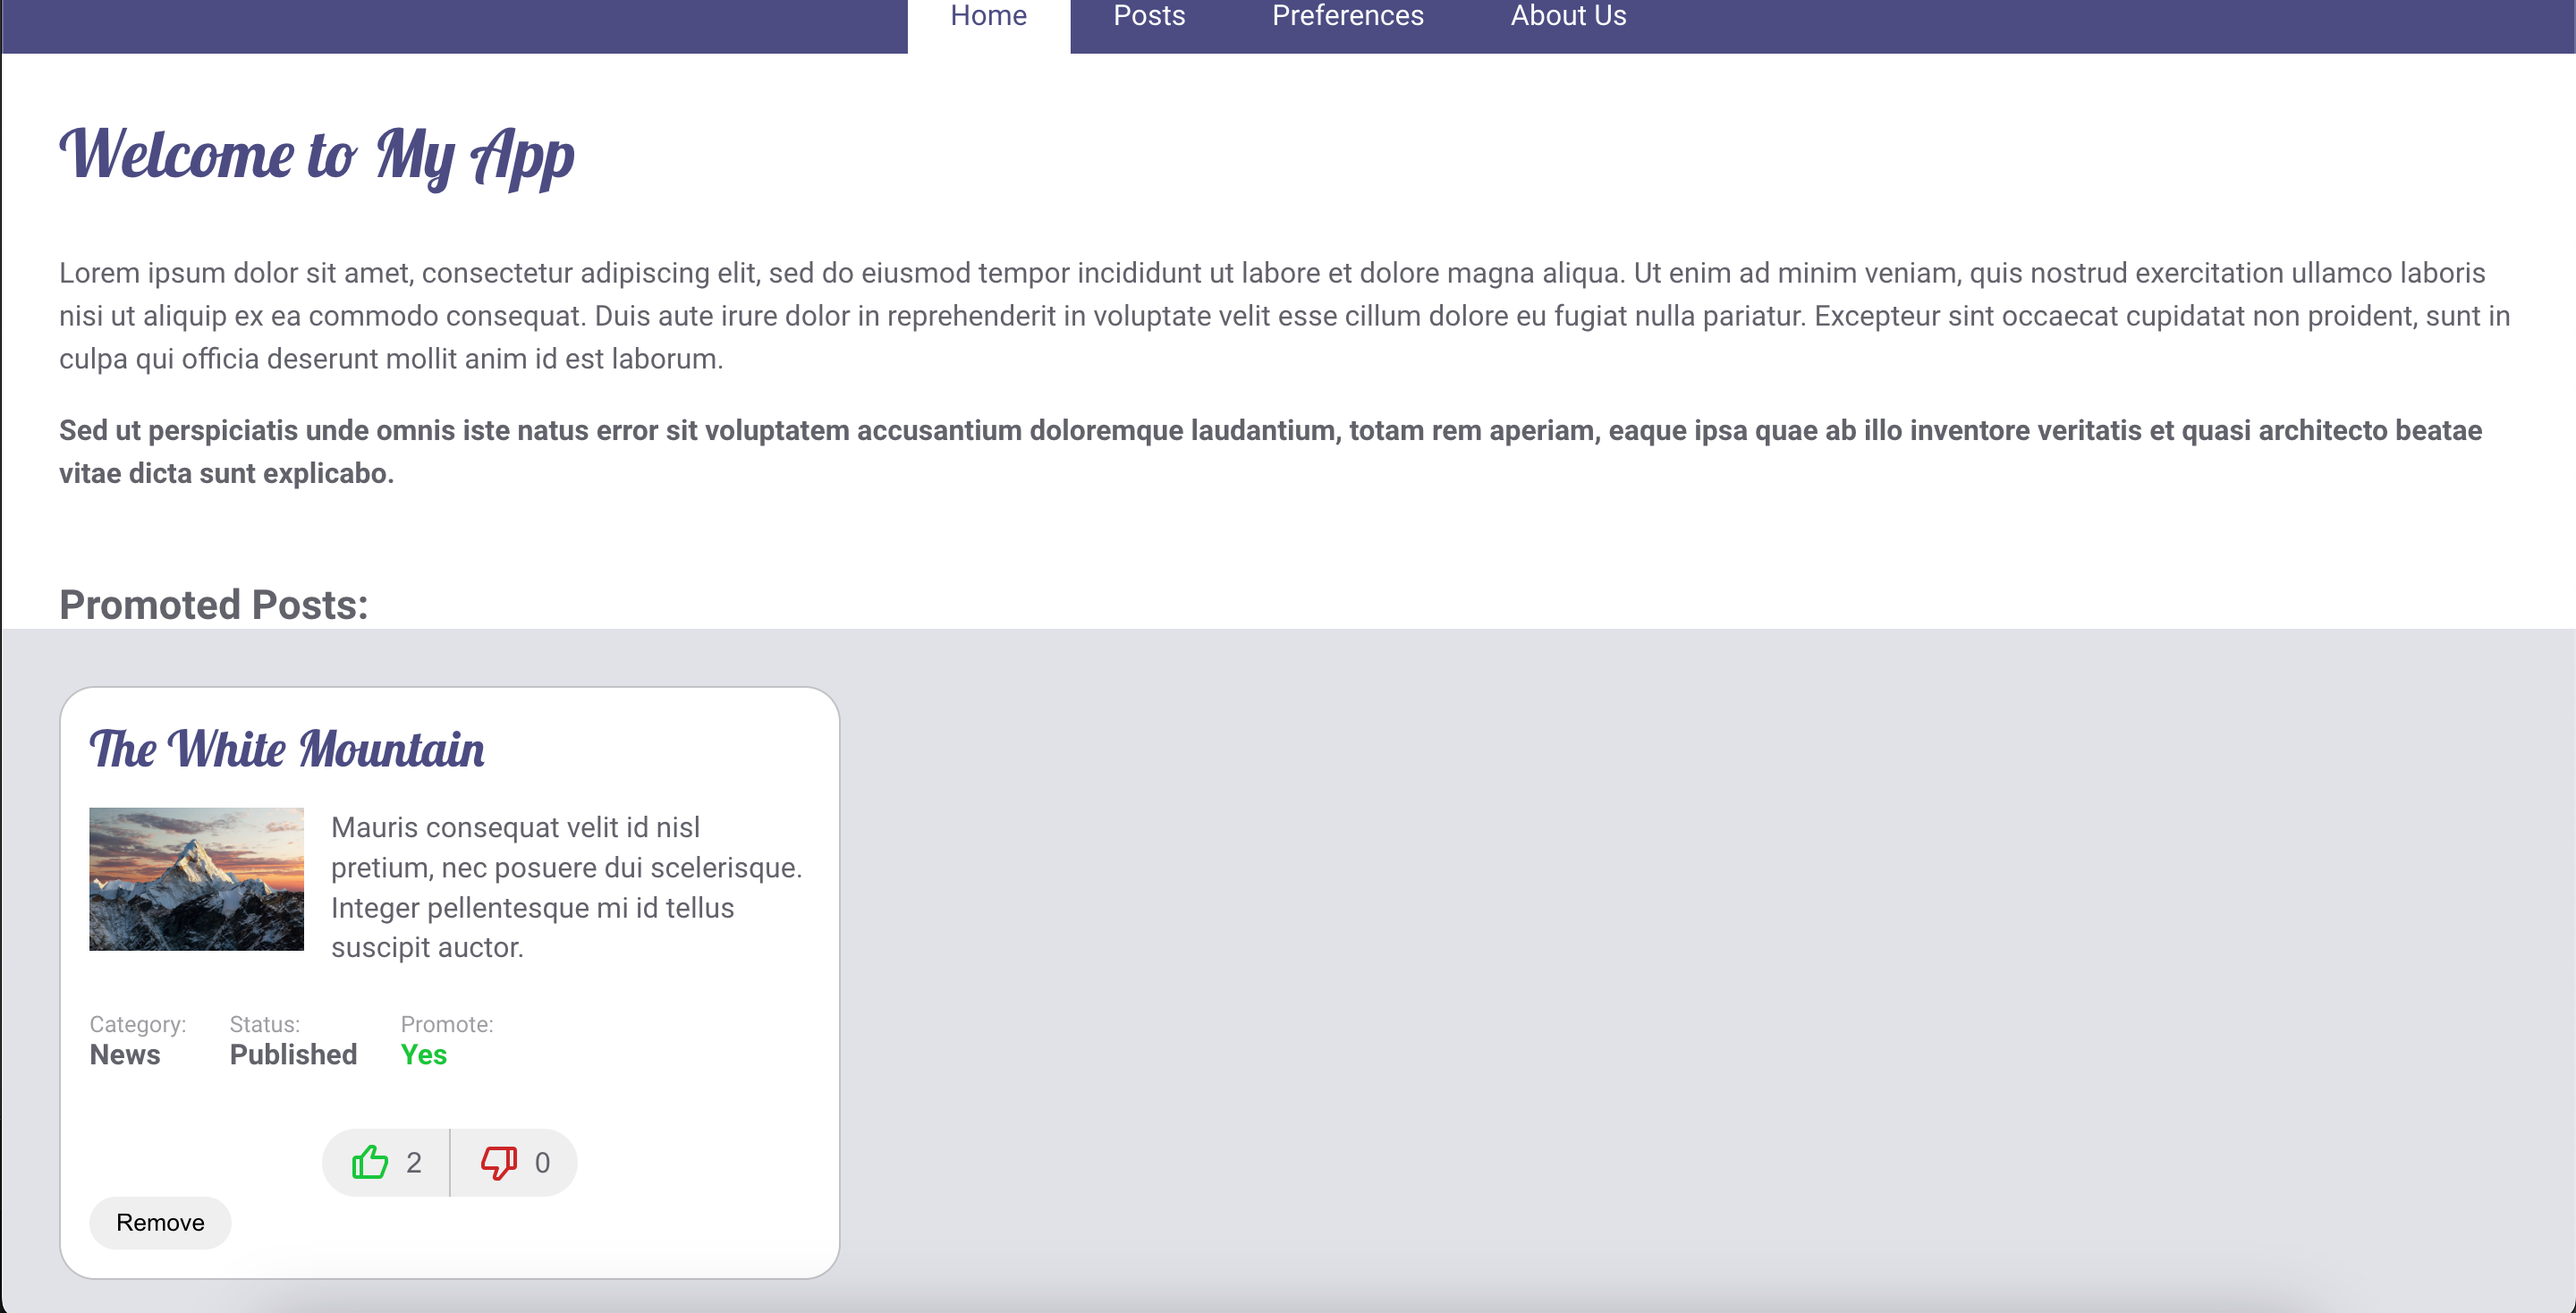
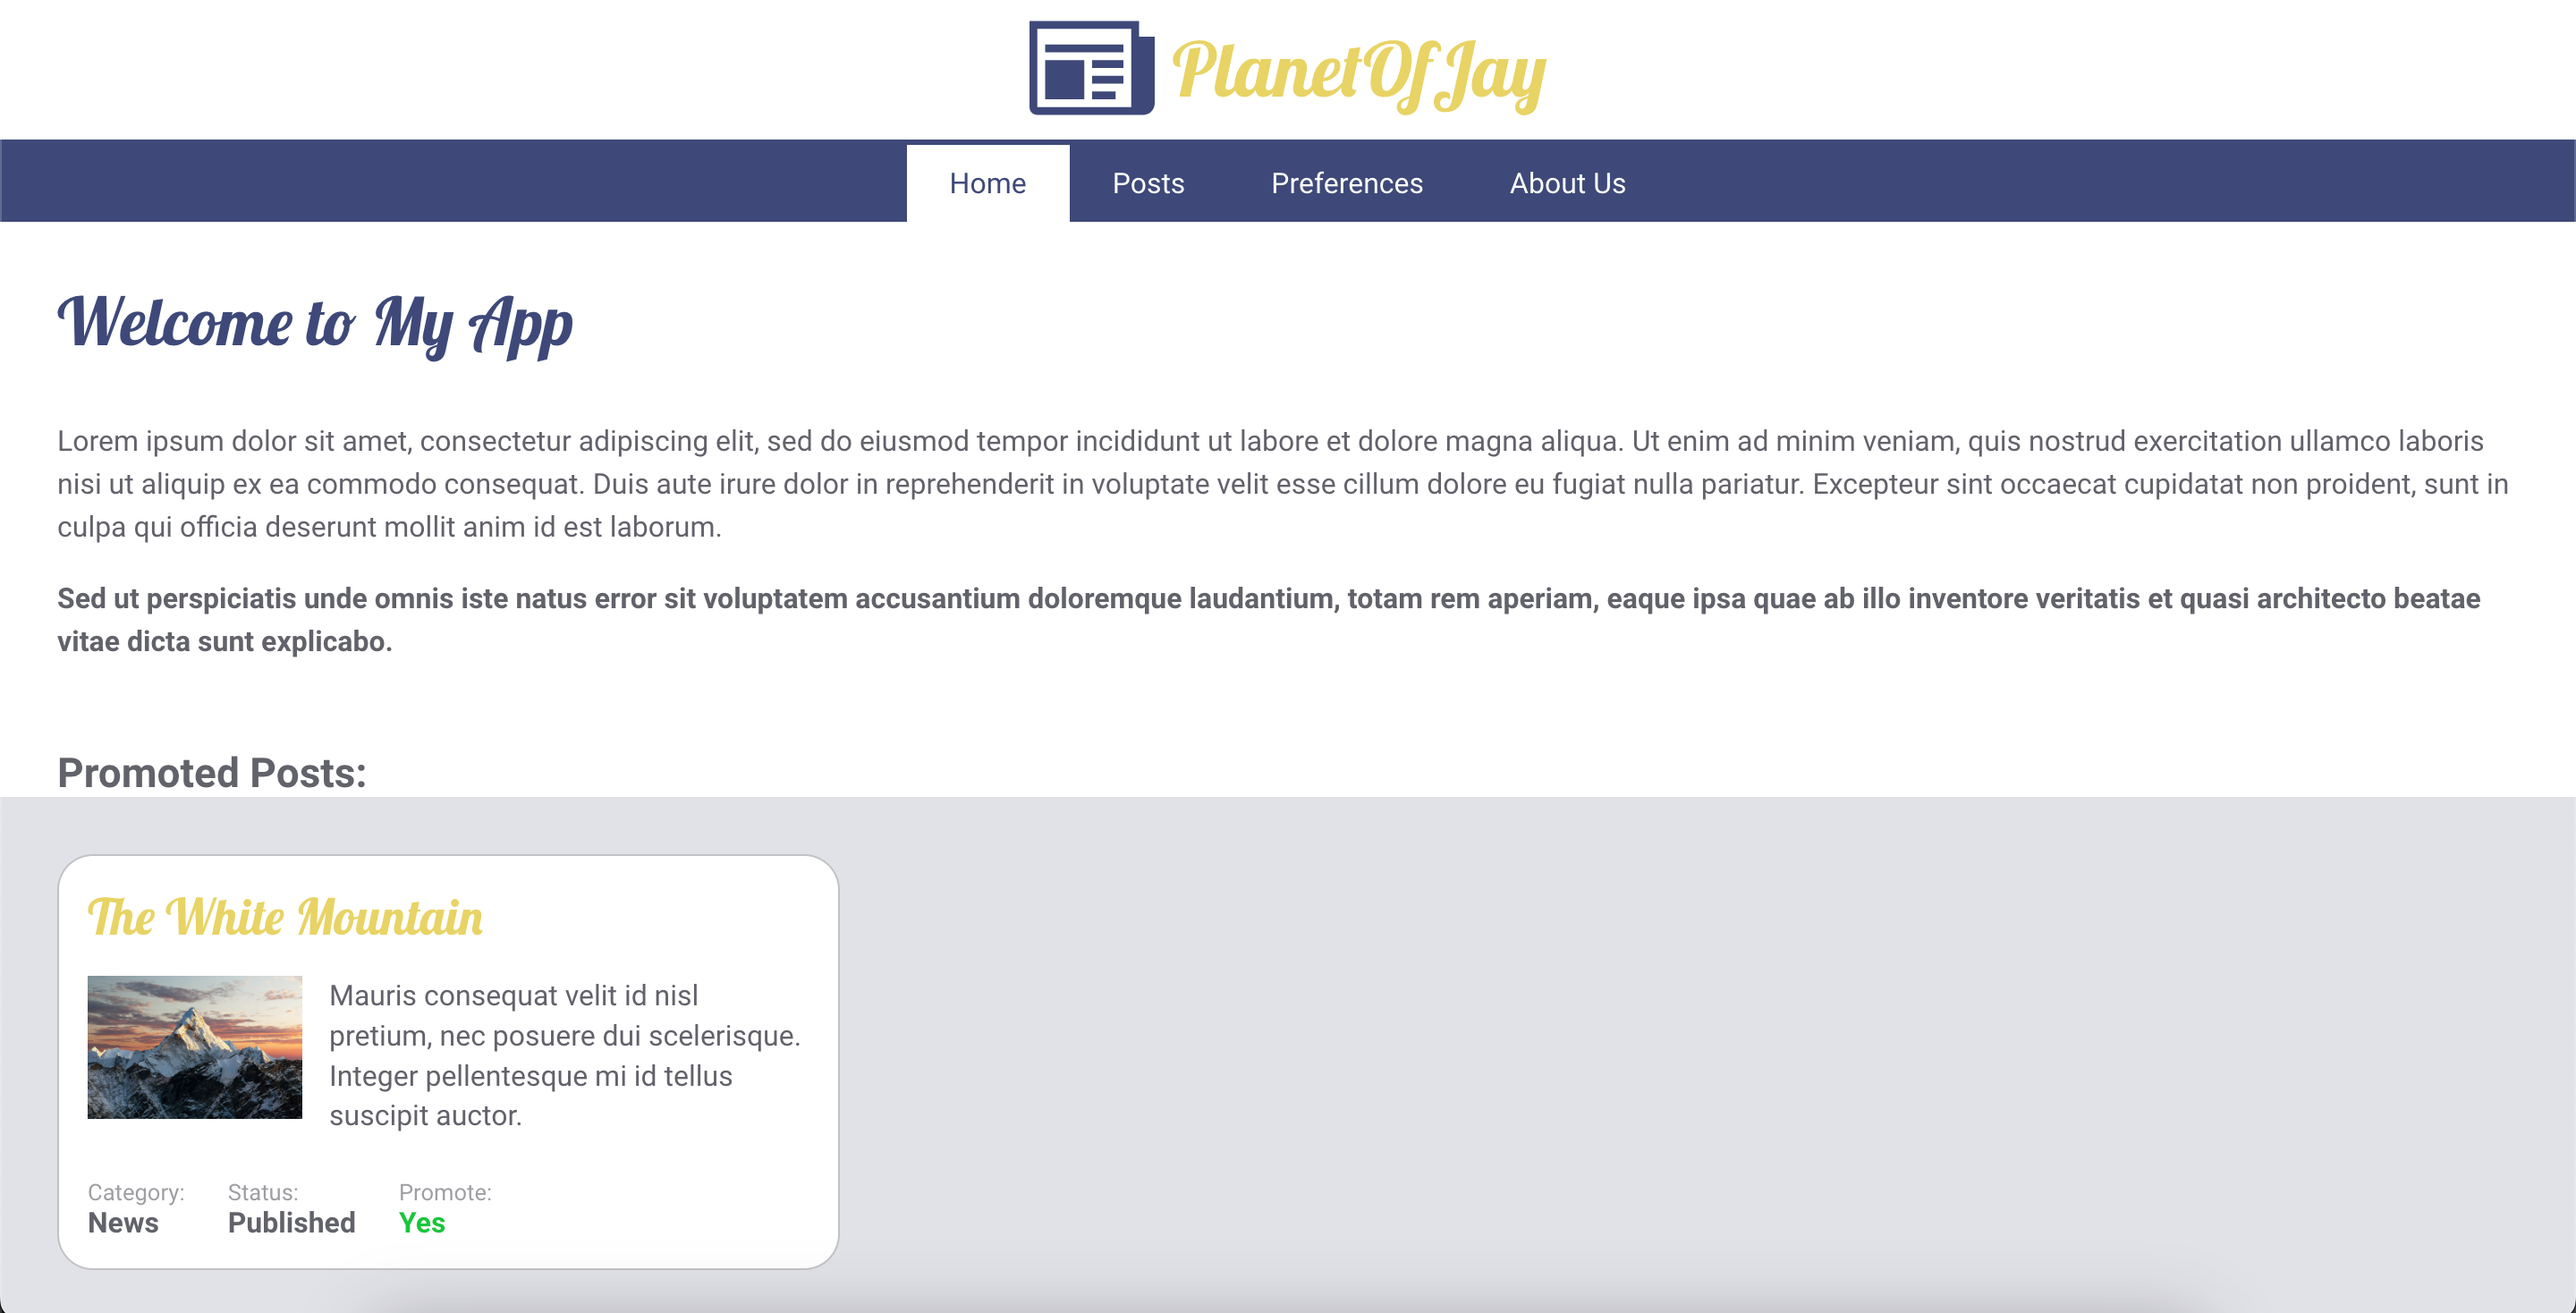
update images

diff --git a/src/components/Posts/Post/styles.scss b/src/components/Posts/Post/styles.scss
@@ -24,7 +24,7 @@
     font-family: $title-font;
     font-size: 28px;
     font-weight: normal;
-    color: $primary-color;
+    color: $title-color;
   }
 
   .description {
